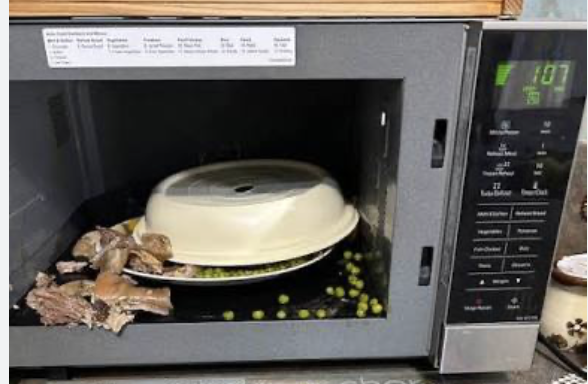
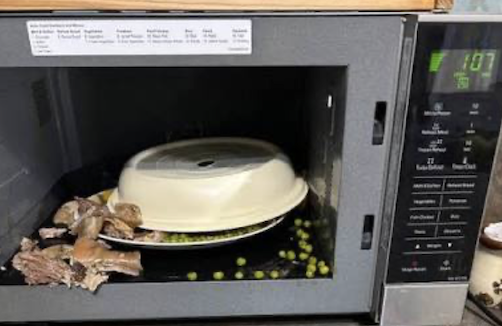
Fun Chef Scatter

diff --git a/hello-world/popular-charts/scatter/funny-scatter.js b/hello-world/popular-charts/scatter/funny-scatter.js
@@ -7,29 +7,20 @@ const chefs = [
     { x: -81, y: -44, name: "College Student with a Hot Plate", marker: "/assets/pictures/chefs/college_cook.png" },
     { x: -74, y: 79, name: "Waffle House Cook at 2 AM", marker: "/assets/pictures/chefs/waffle_house.png" },
     { x: -66, y: -17, name: "Uncle Who Grills Everything Well-Done", marker: "/assets/pictures/chefs/cooking_uncle.png" },
-
     { x: -58, y: 100, name: "Grandma Who Never Uses Recipes", marker: "/assets/pictures/chefs/cooking_grandma.png" },
     { x: -49, y: -71, name: "Microwave Meal Expert", marker: "/assets/pictures/chefs/microwave-expert.png" },
-    { x: -42, y: 15, name: "Dad at the BBQ", marker: "/assets/pictures/chefs/remy.png" },
+    { x: -42, y: 15, name: "Dad at the BBQ", marker: "/assets/pictures/chefs/bbq_dad.png" },
     { x: -25, y: 56, name: "Costco Sample Lady", marker: "/assets/pictures/chefs/costco_sample.png" },
     { x: -17, y: -39, name: "Air Fryer Addict", marker: "/assets/pictures/chefs/airfryer.png" },
-
-    { x: -8, y: 88, name: "Gordon Ramsay", marker: "/assets/pictures/chefs/remy.png" },
-    { x: 0, y: 0, name: "Average Home Cook", marker: "/assets/pictures/chefs/remy.png" },
-    { x: 9, y: -84, name: '"Medium Rare Chicken" Fan', marker: "/assets/pictures/chefs/remy.png" },
-    { x: 27, y: -23, name: "YouTube Shorts Chef", marker: "/assets/pictures/chefs/remy.png" },
+    { x: 8, y: 88, name: "Gordon Ramsay", marker: "/assets/pictures/chefs/gordan_ramsay.png" },
+    { x: 0, y: 0, name: "Average Home Cook", marker: "/assets/pictures/chefs/home_cook.png" },
+    { x: 27, y: -23, name: "YouTube Shorts Chef", marker: "/assets/pictures/chefs/youtube_cook.png" },
     { x: 39, y: 96, name: "Remy (Ratatouille)", marker: "/assets/pictures/chefs/remy.png" },
-    { x: 51, y: -58, name: "Kitchen Fire Starter", marker: "/assets/pictures/chefs/remy.png" },
-
-    { x: 63, y: 33, name: "Instagram Food Influencer", marker: "/assets/pictures/chefs/remy.png" },
-    { x: 74, y: -100, name: "Cafeteria Mystery Meat Chef", marker: "/assets/pictures/chefs/remy.png" },
-    { x: 82, y: 81, name: "Michelin Star Chef", marker: "/assets/pictures/chefs/remy.png" },
-    { x: 90, y: -6, name: '"Trust Me, I Eyeball Everything"', marker: "/assets/pictures/chefs/remy.png" },
-    { x: 100, y: 100, name: "Mom", marker: "/assets/pictures/chefs/remy.png" }
+    { x: 63, y: 33, name: "Instagram Food Influencer", marker: "/assets/pictures/chefs/food_influencer.png" },
+    { x: 74, y: -100, name: "Cafeteria Mystery Meat Chef", marker: "/assets/pictures/chefs/cafeteria.png" },
+    { x: 82, y: 81, name: "Michelin Star Chef", marker: "/assets/pictures/chefs/michelin_chef.png" }
 ];
 
-// const chefMapCoordinates = chefs.map(chef => ( [chef.x, chef.y] ));
-// const chefToolTipLabel = chefs.map(label => { label.name});
 const chefSeries = chefs.map(chef => ({
 
     "values": [[chef.x, chef.y]],
@@ -57,19 +48,86 @@ var myConfig4 = {
         adjustLayout: true
     },
 
+    labels: [{
+        text: "TRUST WITH YOUR STOMACH",
+        x: "43%",
+        y: "5%",
+        fontSize: "22px",
+        color: "blue",
+        borderColor: "blue",
+        borderWidth: "1px",
+        padding: "5px",
+        borderRadius: 10,
+
+        mediaRules: [{
+            maxWidth: 400,
+            backgroundColor: 'red',
+        }]
+    },
+    {
+        text: "JUST ORDER TAKEOUT INSTEAD",
+        x: "43%",
+        y: "93%",
+        fontSize: "22px",
+        color: "blue",
+        borderColor: "blue",
+        borderWidth: "1px",
+        padding: "5px",
+        borderRadius: 10,
+
+        mediaRules: [{
+            maxWidth: 400,
+            backgroundColor: 'red',
+        }]
+    },
+    {
+        text: "NO CULINARY TRAINING",
+        x: "5%",
+        y: "49%",
+        fontSize: "22px",
+        color: "blue",
+        borderColor: "blue",
+        borderWidth: "1px",
+        padding: "5px",
+        borderRadius: 10,
+
+        mediaRules: [{
+            maxWidth: 400,
+            backgroundColor: 'red',
+        }]
+    },
+    {
+        text: "PROFESSIONALLY TRAINED",
+        x: "85%",
+        y: "49%",
+        fontSize: "22px",
+        color: "blue",
+        borderColor: "blue",
+        borderWidth: "1px",
+        padding: "5px",
+        borderRadius: 10,
+
+        mediaRules: [{
+            maxWidth: 400,
+            backgroundColor: 'red',
+        }]
+    }],
+
     "tooltip": {
         "text": "%t: %v",
         "font-color": "black",
+        "font-size": "17px",
         "font-family": "Georgia, serif",
         "background-color": "white",
         "border-color": "black",
-        "border-width": 2
+        "border-width": 1
     },
 
     "scaleX": {
-        "min-value": "-100",
+        "min-value": -100,
         "max-value": 100,
-        "label": "Very Truthworthy",
+        "step": 25,
+
         "refLine": {
             visible: true,
             lineColor: 'gray',
@@ -79,8 +137,10 @@ var myConfig4 = {
     },
 
     "scaleY": {
-        "min-value": -100,
-        "max-value": 100,
+        "min-value": -125,
+        "max-value": 125,
+        "step": 25,
+        visible: true,
 
         "refLine": {
             visible: true,

diff --git a/hello-world/popular-charts/scatter/scatter.js b/hello-world/popular-charts/scatter/scatter.js
@@ -35,7 +35,7 @@ window.addEventListener('load', async () => {
         },
         scaleY: {
             guide: {
-                visible: true
+                visible: true,
             },
             label: {
                 text: yAxisLabel